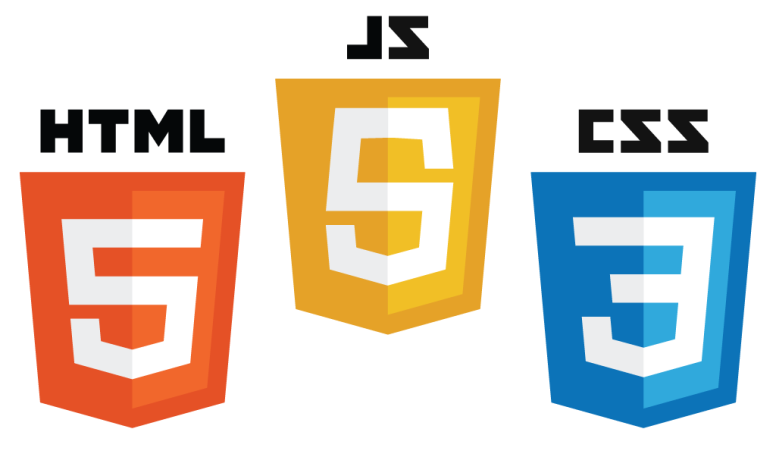
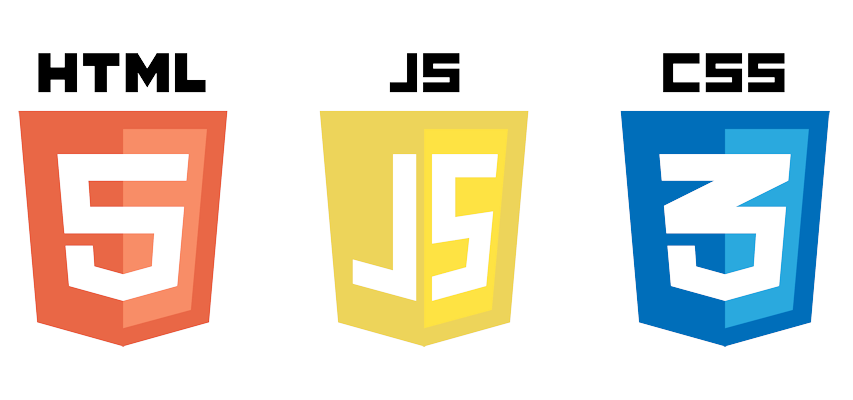
Programing languages
Completed programing languages section

diff --git a/my-portfolio/src/app/page.js b/my-portfolio/src/app/page.js
@@ -2,6 +2,8 @@ import Image from "next/image";
 import React from "react";
 
 
+
+
 export default function Home() {
   return (
     <div className="grid grid-rows-[auto_1fr_auto] items-center justify-items-center min-h-screen sm:p-20 font-[family-name:var(--font-geist-sans)]">
@@ -61,25 +63,74 @@ export default function Home() {
         </div>
 
         <div className="flex flex-col items-center gap-4 py-4 mt-5 md:py-8 px-8 md:px-16 bg-gray-800 rounded-lg">
-          <h1 className="text-2xl font-bold text-center">Skills</h1>
-          <h2 className="text-xl font-bold text-white-500 text-center">Programming Languages</h2>
-          <div className="flex flex-row items-center gap-4">
-            <Image
-              src="/htmlCssJS.png"
-              alt="HTML/Css/JS logo"
-              width={175}
-              height={175}
-              className="bg-clip-border"
-            />
+          <h1 className="text-2xl font-bold text-center">Programming Languages</h1>
+          <div className="flex flex-row items-center gap-4 ">
             <Image
               src="/python.png"
               alt="Python logo"
               width={75}
               height={75}
+              className="rounded bg-clip-border"
+            />
+            <Image
+              src="/java.png"
+              alt="java logo"
+              width={75}
+              height={75}
+              className="rounded bg-clip-border"
+            />
+            <Image
+              src="/HtmlCssJs.png"
+              alt="HTML/Css logo"
+              width={300}
+              height={175}
               className="bg-clip-border"
             />
-            
-            </div>
+            <Image
+              src="/Sql.png"
+              alt="SQL logo"
+              width={70}
+              height={50}
+              className="bg-clip-border"
+            />
+            <Image
+              src="/Php.png"
+              alt="PHP logo"
+              width={100}
+              height={100}
+              className="bg-clip-border"
+            />
+          </div>
+          <div className="flex flex-row items-center gap-4">
+            <Image
+              src="/CSharp.png"
+              alt="C# logo"
+              width={90}
+              height={100}
+              className="bg-clip-border"
+            />
+            <Image
+              src="/React.png"
+              alt="React logo"
+              width={130}
+              height={100}
+              className="bg-clip-border"
+            />
+            <Image
+              src="/Node.png"
+              alt="Node logo"
+              width={150}
+              height={100}
+              className="bg-clip-border"
+            />
+            <Image
+              src="/TWCSS.png"
+              alt="TWCSS logo"
+              width={100}
+              height={75}
+              className="bg-clip-border"
+            />
+          </div>
         </div>
 
       </main>
